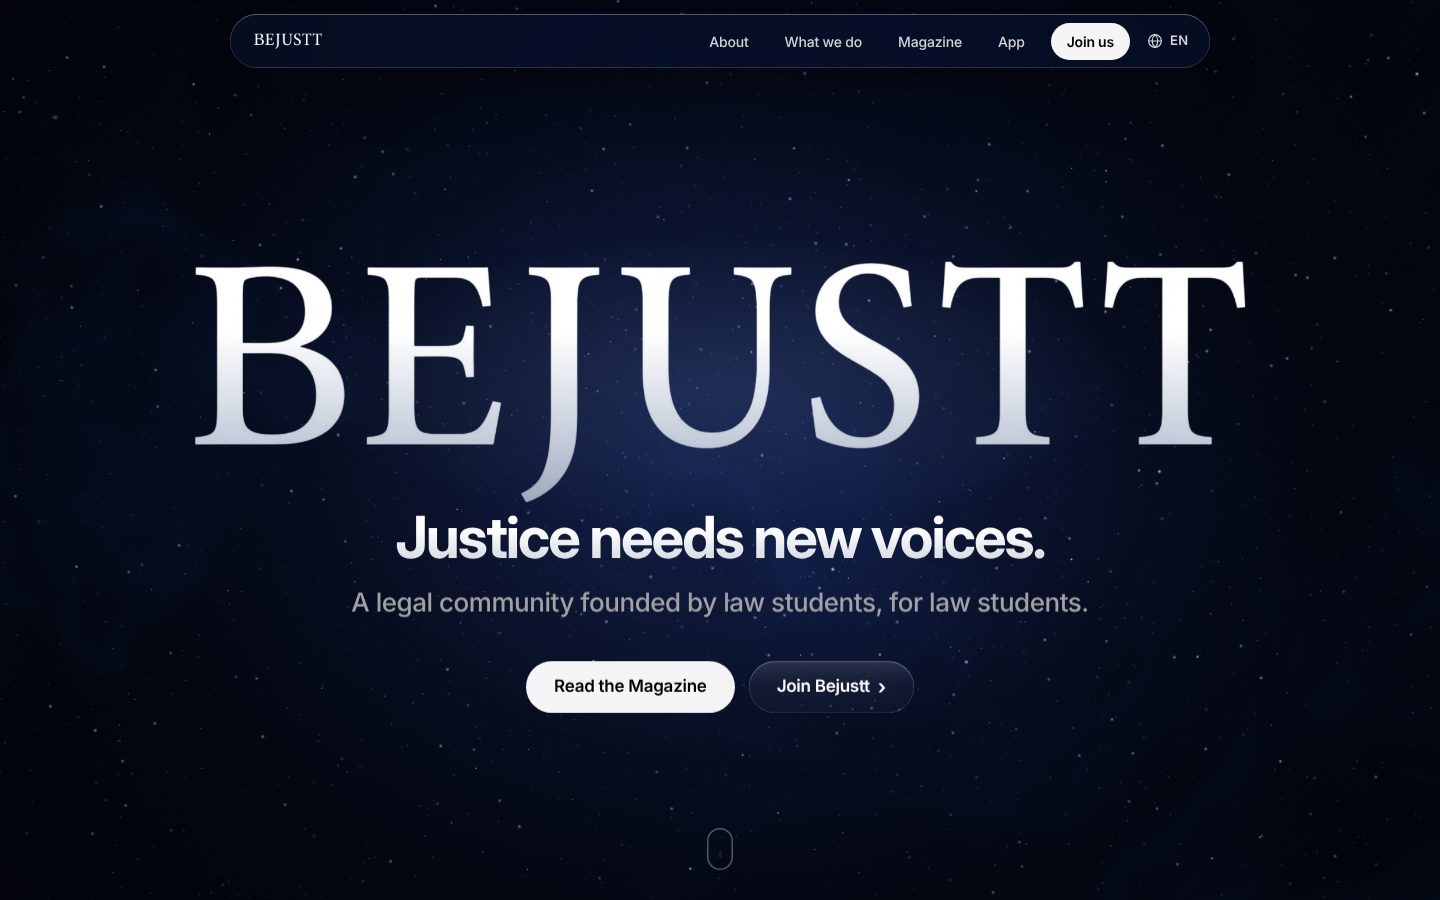
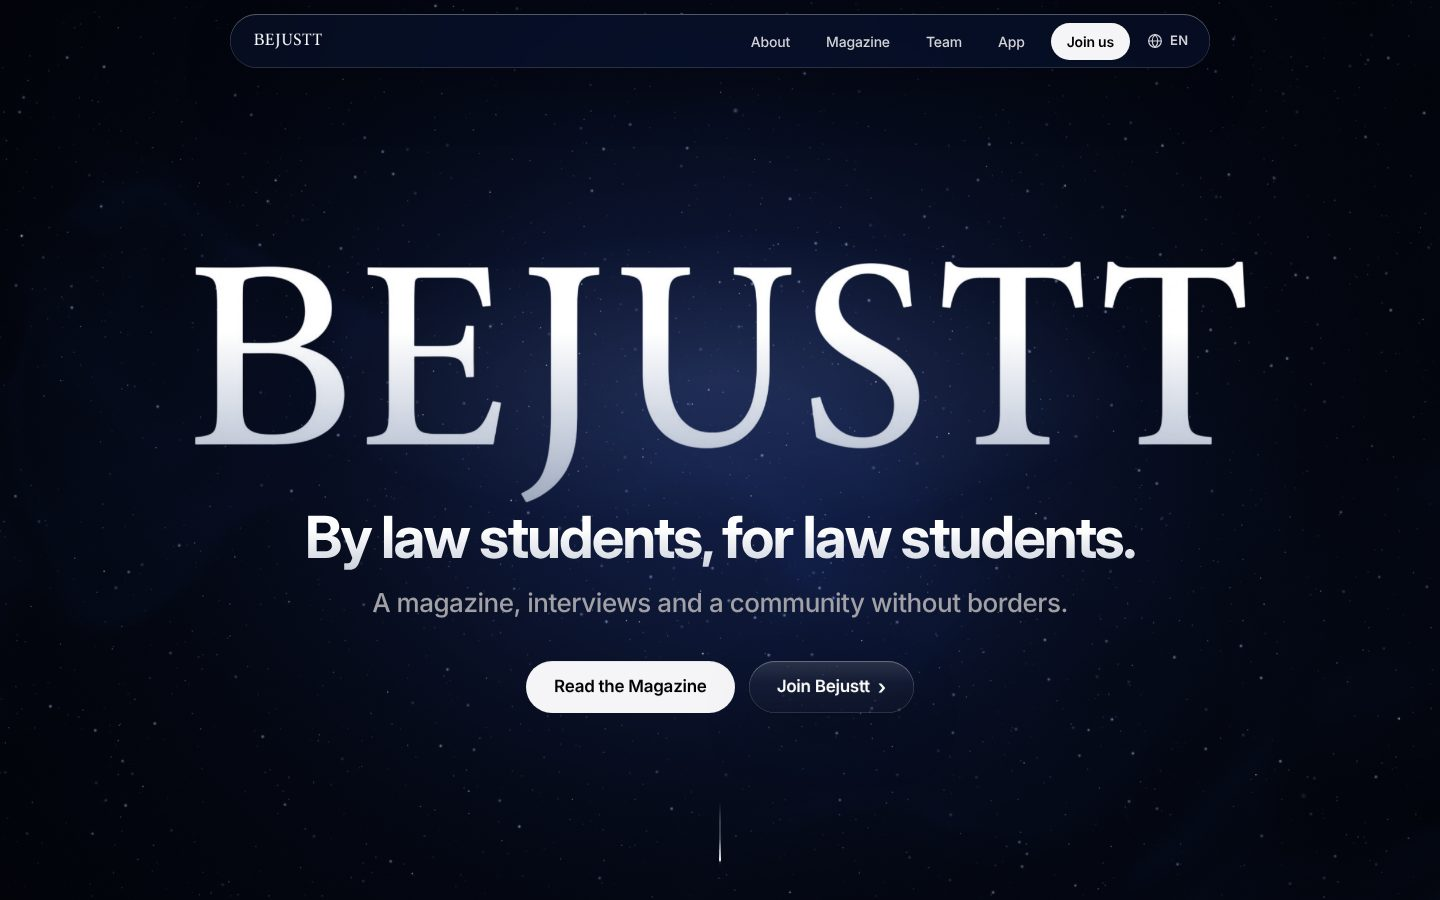
New headline 'By law students, for law students.' in 8 languages, new share image and app screenshots
Claude-Session: https://claude.ai/code/session_01DgUC4Eed7K7WtPWNmgDumx

Changed region(s): [[0.1875, 0.56, 0.7812, 0.6222], [0.25, 0.6533, 0.75, 0.6844], [0.5, 0.0311, 0.6562, 0.0622]]

diff --git a/assets/i18n.js b/assets/i18n.js
@@ -19,8 +19,8 @@ window.BJ_I18N = {
     "lang.title": "Language",
     "nav.about": "About", "nav.work": "What we do", "nav.mag": "Magazine", "nav.join": "Join us", "nav.write": "Write for us",
     "hero.pill": "Founding period",
-    "hero.h1": "Justice needs new voices.",
-    "hero.sub": "A legal community founded by law students, for law students.",
+    "hero.h1": "By law students, for law students.",
+    "hero.sub": "A magazine, interviews and a community without borders.",
     "hero.read": "Read the Magazine", "hero.join": "Join Bejustt",
     "scene.e1": "The idea", "scene.h1": "Justice is a matter<br>of balance.",
     "scene.e2": "The voice", "scene.h2": "Every voice<br><span class='grad-red'>adds weight.</span>",
@@ -65,8 +65,8 @@ window.BJ_I18N = {
     "lang.title": "Dil",
     "nav.about": "Hakkımızda", "nav.work": "Neler yapıyoruz", "nav.mag": "Dergi", "nav.join": "Bize katıl", "nav.write": "Bize yaz",
     "hero.pill": "Kuruluş dönemi",
-    "hero.h1": "Adaletin yeni seslere ihtiyacı var.",
-    "hero.sub": "Hukuk öğrencileri tarafından, hukuk öğrencileri için kurulan bir hukuk topluluğu.",
+    "hero.h1": "Hukuk öğrencileri tarafından, hukuk öğrencileri için.",
+    "hero.sub": "Bir dergi, röportajlar ve sınır tanımayan bir topluluk.",
     "hero.read": "Dergiyi keşfet", "hero.join": "Bejustt’a katıl",
     "scene.e1": "Fikir", "scene.h1": "Adalet bir<br>denge meselesidir.",
     "scene.e2": "Ses", "scene.h2": "Her ses<br><span class='grad-red'>ağırlık katar.</span>",
@@ -111,8 +111,8 @@ window.BJ_I18N = {
     "lang.title": "Langue",
     "nav.about": "À propos", "nav.work": "Nos projets", "nav.mag": "Magazine", "nav.join": "Nous rejoindre", "nav.write": "Écrire pour nous",
     "hero.pill": "Période de fondation",
-    "hero.h1": "La justice a besoin de nouvelles voix.",
-    "hero.sub": "Une communauté juridique fondée par des étudiants en droit, pour des étudiants en droit.",
+    "hero.h1": "Par des étudiants en droit, pour des étudiants en droit.",
+    "hero.sub": "Un magazine, des entretiens et une communauté sans frontières.",
     "hero.read": "Lire le Magazine", "hero.join": "Rejoindre Bejustt",
     "scene.e1": "L’idée", "scene.h1": "La justice est une<br>question d’équilibre.",
     "scene.e2": "La voix", "scene.h2": "Chaque voix<br><span class='grad-red'>a du poids.</span>",
@@ -157,8 +157,8 @@ window.BJ_I18N = {
     "lang.title": "Lingua",
     "nav.about": "Chi siamo", "nav.work": "Cosa facciamo", "nav.mag": "Magazine", "nav.join": "Unisciti", "nav.write": "Scrivi per noi",
     "hero.pill": "Fase di fondazione",
-    "hero.h1": "La giustizia ha bisogno di nuove voci.",
-    "hero.sub": "Una comunità giuridica fondata da studenti di giurisprudenza, per studenti di giurisprudenza.",
+    "hero.h1": "Da studenti di giurisprudenza, per studenti di giurisprudenza.",
+    "hero.sub": "Un magazine, interviste e una comunità senza confini.",
     "hero.read": "Leggi il Magazine", "hero.join": "Unisciti a Bejustt",
     "scene.e1": "L’idea", "scene.h1": "La giustizia è una<br>questione di equilibrio.",
     "scene.e2": "La voce", "scene.h2": "Ogni voce<br><span class='grad-red'>ha il suo peso.</span>",
@@ -203,8 +203,8 @@ window.BJ_I18N = {
     "lang.title": "Idioma",
     "nav.about": "Nosotros", "nav.work": "Qué hacemos", "nav.mag": "Revista", "nav.join": "Únete", "nav.write": "Escribe con nosotros",
     "hero.pill": "Etapa fundacional",
-    "hero.h1": "La justicia necesita nuevas voces.",
-    "hero.sub": "Una comunidad jurídica fundada por estudiantes de Derecho, para estudiantes de Derecho.",
+    "hero.h1": "Por estudiantes de Derecho, para estudiantes de Derecho.",
+    "hero.sub": "Una revista, entrevistas y una comunidad sin fronteras.",
     "hero.read": "Leer la Revista", "hero.join": "Únete a Bejustt",
     "scene.e1": "La idea", "scene.h1": "La justicia es una<br>cuestión de equilibrio.",
     "scene.e2": "La voz", "scene.h2": "Cada voz<br><span class='grad-red'>suma peso.</span>",
@@ -249,8 +249,8 @@ window.BJ_I18N = {
     "lang.title": "Sprache",
     "nav.about": "Über uns", "nav.work": "Was wir tun", "nav.mag": "Magazin", "nav.join": "Mitmachen", "nav.write": "Für uns schreiben",
     "hero.pill": "Gründungsphase",
-    "hero.h1": "Gerechtigkeit braucht neue Stimmen.",
-    "hero.sub": "Eine juristische Community, gegründet von Jurastudierenden, für Jurastudierende.",
+    "hero.h1": "Von Jurastudierenden, für Jurastudierende.",
+    "hero.sub": "Ein Magazin, Interviews und eine Gemeinschaft ohne Grenzen.",
     "hero.read": "Zum Magazin", "hero.join": "Bei Bejustt mitmachen",
     "scene.e1": "Die Idee", "scene.h1": "Gerechtigkeit ist eine<br>Frage der Balance.",
     "scene.e2": "Die Stimme", "scene.h2": "Jede Stimme<br><span class='grad-red'>hat Gewicht.</span>",
@@ -295,8 +295,8 @@ window.BJ_I18N = {
     "lang.title": "Мова",
     "nav.about": "Про нас", "nav.work": "Що ми робимо", "nav.mag": "Журнал", "nav.join": "Приєднатися", "nav.write": "Пиши для нас",
     "hero.pill": "Період заснування",
-    "hero.h1": "Справедливості потрібні нові голоси.",
-    "hero.sub": "Юридична спільнота, заснована студентами-правниками для студентів-правників.",
+    "hero.h1": "Від студентів-правників — для студентів-правників.",
+    "hero.sub": "Журнал, інтерв’ю та спільнота без кордонів.",
     "hero.read": "Читати журнал", "hero.join": "Приєднатися до Bejustt",
     "scene.e1": "Ідея", "scene.h1": "Справедливість —<br>це питання рівноваги.",
     "scene.e2": "Голос", "scene.h2": "Кожен голос<br><span class='grad-red'>має вагу.</span>",
@@ -341,8 +341,8 @@ window.BJ_I18N = {
     "lang.title": "Limbă",
     "nav.about": "Despre noi", "nav.work": "Ce facem", "nav.mag": "Revista", "nav.join": "Alătură-te", "nav.write": "Scrie pentru noi",
     "hero.pill": "Perioada de fondare",
-    "hero.h1": "Justiția are nevoie de voci noi.",
-    "hero.sub": "O comunitate juridică fondată de studenți la Drept, pentru studenți la Drept.",
+    "hero.h1": "De studenți la Drept, pentru studenți la Drept.",
+    "hero.sub": "O revistă, interviuri și o comunitate fără granițe.",
     "hero.read": "Citește Revista", "hero.join": "Alătură-te Bejustt",
     "scene.e1": "Ideea", "scene.h1": "Justiția este o<br>chestiune de echilibru.",
     "scene.e2": "Vocea", "scene.h2": "Fiecare voce<br><span class='grad-red'>adaugă greutate.</span>",

diff --git a/index.html b/index.html
@@ -36,7 +36,7 @@
   <link rel="preload" href="assets/fonts/InterDisplay-ExtraBold.woff" as="font" type="font/woff" crossorigin>
   <link rel="preload" href="assets/fonts/Inter-Medium.woff" as="font" type="font/woff" crossorigin>
   <script>try{var t=localStorage.getItem("bj-theme")||"dark";if(t==="auto")t=matchMedia("(prefers-color-scheme: light)").matches?"light":"dark";document.documentElement.dataset.theme=t;}catch(e){}</script>
-  <link rel="stylesheet" href="assets/style.css?v=19">
+  <link rel="stylesheet" href="assets/style.css?v=20">
 <script type="application/ld+json">{"@context":"https://schema.org","@type":"Organization","name":"Bejustt",
 "url":"https://bejustt.org/","logo":"https://bejustt.org/assets/icon-512.png","description":"A legal community founded by law students, for law students.",
 "sameAs":["https://instagram.com/bejustt.law"]}</script>
@@ -66,8 +66,8 @@
         <img class="hero-logo" src="assets/logo.png" alt="" width="1796" height="423">
         <span class="sheen" aria-hidden="true"></span>
       </div>
-      <p class="h-mid grad hero-title enter e2" data-i18n="hero.h1">Justice needs new voices.</p>
-      <p class="sub enter e3" data-i18n="hero.sub">A legal community founded by law students, for law students.</p>
+      <p class="h-mid grad hero-title enter e2" data-i18n="hero.h1">By law students, for law students.</p>
+      <p class="sub enter e3" data-i18n="hero.sub">A magazine, interviews and a community without borders.</p>
       <div class="ctas enter e4">
         <a class="btn btn-white magnet" href="magazine/" data-i18n="hero.read">Read the Magazine</a>
         <a class="btn btn-glass magnet" href="join/"><span data-i18n="hero.join">Join Bejustt</span> <span class="arr">›</span></a>
@@ -244,11 +244,11 @@
   </div>
 </div>
 
-<script src="assets/depth.js?v=19"></script>
-<script src="assets/i18n.js?v=19"></script>
-<script src="assets/site.js?v=19"></script>
-<script src="assets/map-data.js?v=19"></script>
-<script src="assets/europe-map.js?v=19"></script>
-<script src="assets/frost.js?v=19"></script>
+<script src="assets/depth.js?v=20"></script>
+<script src="assets/i18n.js?v=20"></script>
+<script src="assets/site.js?v=20"></script>
+<script src="assets/map-data.js?v=20"></script>
+<script src="assets/europe-map.js?v=20"></script>
+<script src="assets/frost.js?v=20"></script>
 </body>
 </html>

diff --git a/magazine/index.html b/magazine/index.html
@@ -36,7 +36,7 @@
   <link rel="preload" href="../assets/fonts/InterDisplay-ExtraBold.woff" as="font" type="font/woff" crossorigin>
   <link rel="preload" href="../assets/fonts/Inter-Medium.woff" as="font" type="font/woff" crossorigin>
   <script>try{var t=localStorage.getItem("bj-theme")||"dark";if(t==="auto")t=matchMedia("(prefers-color-scheme: light)").matches?"light":"dark";document.documentElement.dataset.theme=t;}catch(e){}</script>
-  <link rel="stylesheet" href="../assets/style.css?v=19">
+  <link rel="stylesheet" href="../assets/style.css?v=20">
 </head>
 <body data-title="title.mag" data-page="mag">
 
@@ -177,9 +177,9 @@
   </div>
 </div>
 
-<script src="../assets/depth.js?v=19"></script>
-<script src="../assets/i18n.js?v=19"></script>
-<script src="../assets/site.js?v=19"></script>
-<script src="../assets/frost.js?v=19"></script>
+<script src="../assets/depth.js?v=20"></script>
+<script src="../assets/i18n.js?v=20"></script>
+<script src="../assets/site.js?v=20"></script>
+<script src="../assets/frost.js?v=20"></script>
 </body>
 </html>

diff --git a/privacy/index.html b/privacy/index.html
@@ -36,7 +36,7 @@
   <link rel="preload" href="../assets/fonts/InterDisplay-ExtraBold.woff" as="font" type="font/woff" crossorigin>
   <link rel="preload" href="../assets/fonts/Inter-Medium.woff" as="font" type="font/woff" crossorigin>
   <script>try{var t=localStorage.getItem("bj-theme")||"dark";if(t==="auto")t=matchMedia("(prefers-color-scheme: light)").matches?"light":"dark";document.documentElement.dataset.theme=t;}catch(e){}</script>
-  <link rel="stylesheet" href="../assets/style.css?v=19">
+  <link rel="stylesheet" href="../assets/style.css?v=20">
 </head>
 <body data-title="title.privacy" data-page="privacy">
 
@@ -124,8 +124,8 @@
   </div>
 </div>
 
-<script src="../assets/depth.js?v=19"></script>
-<script src="../assets/i18n.js?v=19"></script>
-<script src="../assets/site.js?v=19"></script>
+<script src="../assets/depth.js?v=20"></script>
+<script src="../assets/i18n.js?v=20"></script>
+<script src="../assets/site.js?v=20"></script>
 </body>
 </html>

diff --git a/join/index.html b/join/index.html
@@ -36,7 +36,7 @@
   <link rel="preload" href="../assets/fonts/InterDisplay-ExtraBold.woff" as="font" type="font/woff" crossorigin>
   <link rel="preload" href="../assets/fonts/Inter-Medium.woff" as="font" type="font/woff" crossorigin>
   <script>try{var t=localStorage.getItem("bj-theme")||"dark";if(t==="auto")t=matchMedia("(prefers-color-scheme: light)").matches?"light":"dark";document.documentElement.dataset.theme=t;}catch(e){}</script>
-  <link rel="stylesheet" href="../assets/style.css?v=19">
+  <link rel="stylesheet" href="../assets/style.css?v=20">
 </head>
 <body data-title="title.join" data-page="join">
 
@@ -213,8 +213,8 @@
   </div>
 </div>
 
-<script src="../assets/depth.js?v=19"></script>
-<script src="../assets/i18n.js?v=19"></script>
-<script src="../assets/site.js?v=19"></script>
+<script src="../assets/depth.js?v=20"></script>
+<script src="../assets/i18n.js?v=20"></script>
+<script src="../assets/site.js?v=20"></script>
 </body>
 </html>

diff --git a/app/index.html b/app/index.html
@@ -36,7 +36,7 @@
   <link rel="preload" href="../assets/fonts/InterDisplay-ExtraBold.woff" as="font" type="font/woff" crossorigin>
   <link rel="preload" href="../assets/fonts/Inter-Medium.woff" as="font" type="font/woff" crossorigin>
   <script>try{var t=localStorage.getItem("bj-theme")||"dark";if(t==="auto")t=matchMedia("(prefers-color-scheme: light)").matches?"light":"dark";document.documentElement.dataset.theme=t;}catch(e){}</script>
-  <link rel="stylesheet" href="../assets/style.css?v=19">
+  <link rel="stylesheet" href="../assets/style.css?v=20">
 </head>
 <body data-title="title.app" data-page="app">
 
@@ -219,8 +219,8 @@
   </div>
 </div>
 
-<script src="../assets/depth.js?v=19"></script>
-<script src="../assets/i18n.js?v=19"></script>
-<script src="../assets/site.js?v=19"></script>
+<script src="../assets/depth.js?v=20"></script>
+<script src="../assets/i18n.js?v=20"></script>
+<script src="../assets/site.js?v=20"></script>
 </body>
 </html>

diff --git a/magazine/_template.html b/magazine/_template.html
@@ -28,7 +28,7 @@
   <link rel="preload" href="../assets/fonts/InterDisplay-ExtraBold.woff" as="font" type="font/woff" crossorigin>
   <link rel="preload" href="../assets/fonts/Inter-Medium.woff" as="font" type="font/woff" crossorigin>
   <script>try{var t=localStorage.getItem("bj-theme")||"dark";if(t==="auto")t=matchMedia("(prefers-color-scheme: light)").matches?"light":"dark";document.documentElement.dataset.theme=t;}catch(e){}</script>
-  <link rel="stylesheet" href="../assets/style.css?v=19">
+  <link rel="stylesheet" href="../assets/style.css?v=20">
 </head>
 <body data-title="title.mag" data-page="mag">
 
@@ -124,8 +124,8 @@
   </div>
 </div>
 
-<script src="../assets/depth.js?v=19"></script>
-<script src="../assets/i18n.js?v=19"></script>
-<script src="../assets/site.js?v=19"></script>
+<script src="../assets/depth.js?v=20"></script>
+<script src="../assets/i18n.js?v=20"></script>
+<script src="../assets/site.js?v=20"></script>
 </body>
 </html>

diff --git a/sw.js b/sw.js
@@ -1,6 +1,6 @@
-/* Bejustt service worker — v19 */
-const C = "bejustt-19";
-const CORE = ["./", "magazine/", "join/", "app/", "assets/style.css?v=19", "assets/site.js?v=19", "assets/i18n.js?v=19", "assets/depth.js?v=19", "assets/logo.png", "assets/icon-192.png", "manifest.webmanifest"];
+/* Bejustt service worker — v20 */
+const C = "bejustt-20";
+const CORE = ["./", "magazine/", "join/", "app/", "assets/style.css?v=20", "assets/site.js?v=20", "assets/i18n.js?v=20", "assets/depth.js?v=20", "assets/logo.png", "assets/icon-192.png", "manifest.webmanifest"];
 self.addEventListener("install", (e) => { e.waitUntil(caches.open(C).then((c) => c.addAll(CORE).catch(() => {})).then(() => self.skipWaiting())); });
 self.addEventListener("activate", (e) => { e.waitUntil(caches.keys().then((ks) => Promise.all(ks.filter((k) => k !== C).map((k) => caches.delete(k)))).then(() => self.clients.claim())); });
 self.addEventListener("fetch", (e) => {

diff --git a/404.html b/404.html
@@ -28,7 +28,7 @@
   <link rel="preload" href="/assets/fonts/InterDisplay-ExtraBold.woff" as="font" type="font/woff" crossorigin>
   <link rel="preload" href="/assets/fonts/Inter-Medium.woff" as="font" type="font/woff" crossorigin>
   <script>try{var t=localStorage.getItem("bj-theme")||"dark";if(t==="auto")t=matchMedia("(prefers-color-scheme: light)").matches?"light":"dark";document.documentElement.dataset.theme=t;}catch(e){}</script>
-  <link rel="stylesheet" href="/assets/style.css?v=19">
+  <link rel="stylesheet" href="/assets/style.css?v=20">
 </head>
 <body data-title="title.404" data-page="404">
 
@@ -109,8 +109,8 @@
   </div>
 </div>
 
-<script src="/assets/depth.js?v=19"></script>
-<script src="/assets/i18n.js?v=19"></script>
-<script src="/assets/site.js?v=19"></script>
+<script src="/assets/depth.js?v=20"></script>
+<script src="/assets/i18n.js?v=20"></script>
+<script src="/assets/site.js?v=20"></script>
 </body>
 </html>

diff --git a/src/home.html b/src/home.html
@@ -7,8 +7,8 @@
         <img class="hero-logo" src="{R}assets/logo.png" alt="" width="1796" height="423">
         <span class="sheen" aria-hidden="true"></span>
       </div>
-      <p class="h-mid grad hero-title enter e2" data-i18n="hero.h1">Justice needs new voices.</p>
-      <p class="sub enter e3" data-i18n="hero.sub">A legal community founded by law students, for law students.</p>
+      <p class="h-mid grad hero-title enter e2" data-i18n="hero.h1">By law students, for law students.</p>
+      <p class="sub enter e3" data-i18n="hero.sub">A magazine, interviews and a community without borders.</p>
       <div class="ctas enter e4">
         <a class="btn btn-white magnet" href="{R}magazine/" data-i18n="hero.read">Read the Magazine</a>
         <a class="btn btn-glass magnet" href="{R}join/"><span data-i18n="hero.join">Join Bejustt</span> <span class="arr">›</span></a>

diff --git a/tools/build.py b/tools/build.py
@@ -27,7 +27,7 @@ self.addEventListener("fetch", (e) => {
   e.respondWith(caches.match(r).then((m) => m || fetch(r).then((res) => { if (res.ok) { const cp = res.clone(); caches.open(C).then((c) => c.put(r, cp)); } return res; })));
 });
 """
-V = "19"  # bump to refresh browser caches after a change
+V = "20"  # bump to refresh browser caches after a change
 ROOT = Path(__file__).resolve().parent.parent
 LANGS = ["en", "tr", "fr", "it", "es", "de", "uk", "ro"]
 
